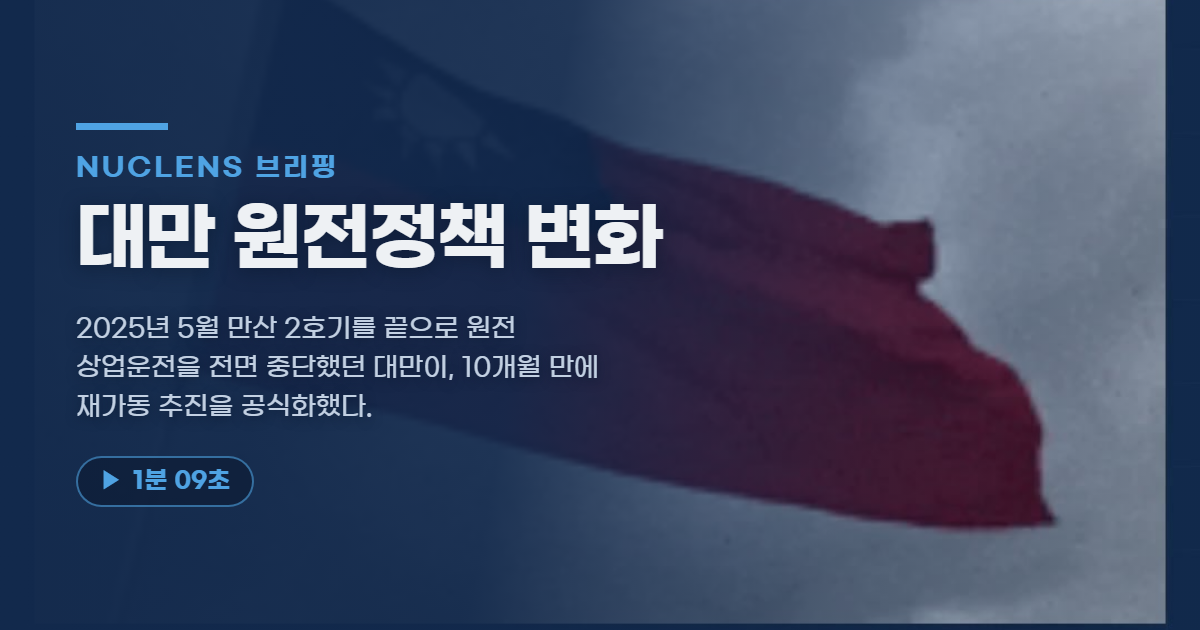
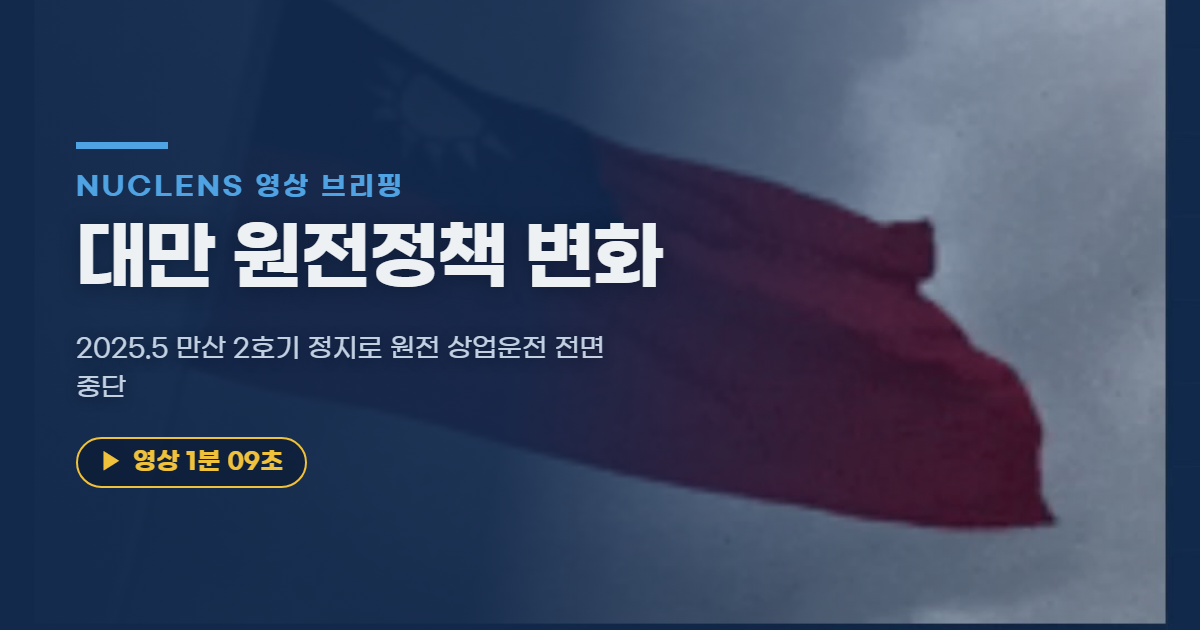
feat: 공유 페이지 표제를 「영상 브리핑」으로, 요약은 개조식으로 영상 위에
지니 2026-09-21 세 가지.

① 표제 반복. 제목이 영상 안에 상시 떠 있는데 표제·캡션·미리보기까지 같은
   낱말이라 한 화면에 네 번 보였다. 표제를 코너 이름 「영상 브리핑」으로
   바꾼다. 주제(대만 원전정책 변화)는 영상이 스스로 말한다. og:title 에는
   남긴다 — 링크만 받은 사람은 영상을 아직 못 봤다.

② 요약을 사내 보고서 문체 개조식으로, 그리고 **영상 위**로. 1분을 쓰기 전에
   무슨 내용인지 먼저 알아야 누를지가 정해진다. 체언 종결 4줄.

③ "이게 영상인지 잘 모르겠다"는 얘기. 표지가 타이포 그래픽이라 정지
   이미지로 읽히고, 브라우저 기본 재생 삼각형은 흐려서 신호가 약하다.
   · 공유 페이지 — 노란 원 + 「영상 재생 · 1분 09초」를 표지 위에. 누르면
     사라지고 그 뒤로는 기본 컨트롤이 맡는다.
   · 이슈 상세 타일 — 표지 오른쪽 아래에 「▶ 1분 09초」 길이 배지.

목록 글머리 ○ 는 글리프로 찍으면 12.5px 하한 가드에 걸린다(10px). 글자가
아니라 6px 원으로 그린다.

make_share.py 는 f-string 을 버리고 토큰 치환으로 다시 썼다 — CSS 중괄호와
두 번 부딪혔다.

Changed region(s): [[0.0617, 0.181, 0.555, 0.6635], [0.0617, 0.6937, 0.2467, 0.8143]]

diff --git a/web/public/shorts/taiwan/index.html b/web/public/shorts/taiwan/index.html
@@ -3,49 +3,72 @@
 <head>
 <meta charset="utf-8">
 <meta name="viewport" content="width=device-width, initial-scale=1">
-<title>대만 원전정책 변화 · NUCLENS 브리핑</title>
-<meta name="description" content="2025년 5월 만산 2호기를 끝으로 원전 상업운전을 전면 중단했던 대만이, 10개월 만에 재가동 추진을 공식화했다.">
+<title>대만 원전정책 변화 · NUCLENS 영상 브리핑</title>
+<meta name="description" content="2025.5 만산 2호기 정지로 원전 상업운전 전면 중단">
 <link rel="canonical" href="https://nuclens.pages.dev/shorts/taiwan/">
 
 <meta property="og:type" content="video.other">
 <meta property="og:site_name" content="Nuclens">
 <meta property="og:locale" content="ko_KR">
-<meta property="og:title" content="대만 원전정책 변화 · NUCLENS 브리핑">
-<meta property="og:description" content="2025년 5월 만산 2호기를 끝으로 원전 상업운전을 전면 중단했던 대만이, 10개월 만에 재가동 추진을 공식화했다.">
+<meta property="og:title" content="대만 원전정책 변화 · NUCLENS 영상 브리핑">
+<meta property="og:description" content="2025.5 만산 2호기 정지로 원전 상업운전 전면 중단">
 <meta property="og:url" content="https://nuclens.pages.dev/shorts/taiwan/">
 <meta property="og:image" content="https://nuclens.pages.dev/shorts/2026-09-21-taiwan-og.png">
 <meta property="og:image:width" content="1200">
 <meta property="og:image:height" content="630">
-<meta property="og:image:alt" content="대만 원전정책 변화 — NUCLENS 브리핑 영상">
+<meta property="og:image:alt" content="대만 원전정책 변화 — NUCLENS 영상 브리핑">
 <meta property="og:video" content="https://nuclens.pages.dev/shorts/2026-09-21-taiwan.mp4">
 <meta property="og:video:type" content="video/mp4">
 <meta property="og:video:width" content="1080">
 <meta property="og:video:height" content="1920">
 <meta name="twitter:card" content="summary_large_image">
-<meta name="twitter:title" content="대만 원전정책 변화 · NUCLENS 브리핑">
-<meta name="twitter:description" content="2025년 5월 만산 2호기를 끝으로 원전 상업운전을 전면 중단했던 대만이, 10개월 만에 재가동 추진을 공식화했다.">
+<meta name="twitter:title" content="대만 원전정책 변화 · NUCLENS 영상 브리핑">
+<meta name="twitter:description" content="2025.5 만산 2호기 정지로 원전 상업운전 전면 중단">
 <meta name="twitter:image" content="https://nuclens.pages.dev/shorts/2026-09-21-taiwan-og.png">
 
 <link rel="icon" href="/favicon.svg">
 <style>
 @font-face{font-family:"Pretendard Variable";
   src:url("/fonts/pretendard/v1.3.9/PretendardVariable.subset.woff2") format("woff2-variations");font-weight:45 920;font-display:swap}
-:root{--navy:#12294C;--paper:#EEF1F4;--blue:#4FA3E3;--dim:#9FB3CC}
+:root{--navy:#12294C;--paper:#EEF1F4;--blue:#4FA3E3;--dim:#9FB3CC;--video:#F0C23C}
 *{margin:0;padding:0;box-sizing:border-box}
 body{background:var(--navy);color:var(--paper);min-height:100vh;
   font-family:"Pretendard Variable","Malgun Gothic",sans-serif;
   -webkit-font-smoothing:antialiased;display:flex;justify-content:center;
-  padding:40px 16px 72px}
+  padding:36px 16px 72px}
 .wrap{width:100%;max-width:520px}
 a{color:inherit}
 .home{display:inline-flex;align-items:center;gap:9px;font-size:15px;font-weight:600;
   color:var(--blue);text-decoration:none;letter-spacing:.08em}
-.rule{width:64px;height:5px;background:var(--blue);margin:26px 0 16px}
-h1{font-size:34px;font-weight:800;letter-spacing:-.03em;line-height:1.28}
-.meta{font-size:14px;color:var(--dim);margin-top:12px;letter-spacing:.02em}
-video{width:100%;aspect-ratio:9/16;display:block;margin-top:22px;border-radius:14px;
+.rule{width:64px;height:5px;background:var(--blue);margin:24px 0 14px}
+h1{font-size:32px;font-weight:800;letter-spacing:-.03em;line-height:1.28}
+.meta{font-size:14px;color:var(--dim);margin-top:10px;letter-spacing:.02em}
+
+/* 요약은 영상 **위**다(지니 2026-09-21). 1분을 쓰기 전에 무슨 내용인지 먼저
+   알아야 누를지가 정해진다. 사내 보고서 문체 그대로 개조식 체언 종결. */
+.sum{list-style:none;margin:22px 0 0}
+.sum li{position:relative;padding-left:17px;font-size:15.5px;line-height:1.7;
+  color:#C8D4E4;word-break:keep-all}
+.sum li+li{margin-top:7px}
+.sum li::before{content:"";position:absolute;left:0;top:10px;width:6px;height:6px;
+  border:1.5px solid var(--video);border-radius:50%}
+
+/* 표지가 타이포 그래픽이라 정지 이미지로 읽힌다는 말이 나왔다. 브라우저 기본
+   재생 삼각형은 흐려서 신호가 약하다 — 노란 원과 "영상 재생" 글자를 얹는다.
+   한 번 누르면 사라지고 그 다음부터는 기본 컨트롤이 맡는다. */
+.player{position:relative;margin-top:24px;border-radius:14px;overflow:hidden;
   background:#0b1830;box-shadow:0 18px 44px rgba(0,0,0,.45)}
-.lede{font-size:16px;line-height:1.65;color:#C8D4E4;margin-top:24px;word-break:keep-all}
+.player video{width:100%;aspect-ratio:9/16;display:block}
+.cue{position:absolute;inset:0;display:flex;flex-direction:column;
+  align-items:center;justify-content:center;gap:16px;border:0;cursor:pointer;
+  background:rgb(8 18 36 / 34%);font-family:inherit;color:#fff}
+.cue[hidden]{display:none}
+.cue-ico{width:78px;height:78px;border-radius:50%;background:var(--video);
+  color:#20160a;display:flex;align-items:center;justify-content:center;
+  font-size:30px;padding-left:5px;box-shadow:0 10px 26px rgba(0,0,0,.45)}
+.cue-txt{padding:7px 16px;border-radius:999px;background:rgb(8 18 36 / 78%);
+  font-size:15px;font-weight:700;letter-spacing:.02em}
+
 .row{display:flex;gap:10px;margin-top:22px;flex-wrap:wrap}
 .btn{flex:1 1 160px;display:inline-flex;align-items:center;justify-content:center;
   gap:8px;padding:15px 18px;border-radius:11px;font-size:16px;font-weight:700;
@@ -68,13 +91,19 @@ video{width:100%;aspect-ratio:9/16;display:block;margin-top:22px;border-radius:1
 <div class="wrap">
   <a class="home" href="/">← NUCLENS</a>
   <div class="rule"></div>
-  <h1>대만 원전정책 변화</h1>
-  <div class="meta">NUCLENS 브리핑 · 2026-09-21 · 1분 09초</div>
+  <h1>영상 브리핑</h1>
+  <div class="meta">2026. 09. 21. · 1분 09초</div>
 
-  <video controls playsinline preload="metadata"
-         poster="/shorts/2026-09-21-taiwan.jpg" src="/shorts/2026-09-21-taiwan.mp4"></video>
+  <ul class="sum"><li>2025.5 만산 2호기 정지로 원전 상업운전 전면 중단</li><li>10개월 뒤 2026.3 정부가 재가동 추진 공식화</li><li>계속운전 국민투표는 찬성 74.17%에도 정족수 미달로 부결</li><li>재가동 시점은 안전점검·심사 후 빨라야 2028년 전망</li></ul>
 
-  <p class="lede">2025년 5월 만산 2호기를 끝으로 원전 상업운전을 전면 중단했던 대만이, 10개월 만에 재가동 추진을 공식화했다.<br>계속운전 국민투표는 찬성 74.17%에도 정족수 미달로 부결됐고, 재가동은 안전점검·심사를 거쳐 빨라야 2028년이다.</p>
+  <div class="player">
+    <video id="v" controls playsinline preload="metadata"
+           poster="/shorts/2026-09-21-taiwan.jpg" src="/shorts/2026-09-21-taiwan.mp4"></video>
+    <button type="button" class="cue" id="cue">
+      <span class="cue-ico" aria-hidden="true">&#9654;</span>
+      <span class="cue-txt">영상 재생 · 1분 09초</span>
+    </button>
+  </div>
 
   <div class="row">
     <button class="btn p" id="copy">링크 복사</button>
@@ -83,7 +112,7 @@ video{width:100%;aspect-ratio:9/16;display:block;margin-top:22px;border-radius:1
 
   <div class="src">
     <b>자료</b> 대만 원자력안전위원회 · 경제부 · 중앙선거위원회 · 대만전력 발표 및
-    중앙통신사(CNA) 보도 종합. 기준일 2026. 9. 21.<br>
+    중앙통신사(CNA) 보도 종합. 기준일 2026. 09. 21.<br>
     <b>사진</b> Wikimedia Commons — 만산 원전(Taiwankengo, CC BY-SA 4.0),
     총통부(Paul Arps, CC BY 2.0), 입법원(Yu tptw·阿道, CC BY-SA 4.0),
     라이칭더 총통(總統府, CC BY 2.0)
@@ -91,25 +120,35 @@ video{width:100%;aspect-ratio:9/16;display:block;margin-top:22px;border-radius:1
 </div>
 <div class="toast" id="toast">링크를 복사했습니다</div>
 <script>
-// 공유 시트가 있으면 그걸 쓰고(폰), 없으면 클립보드로 떨어진다(PC).
-document.getElementById("copy").addEventListener("click", async () => {
-  const url = location.href;
-  const data = { title: '대만 원전정책 변화', text: '2025년 5월 만산 2호기를 끝으로 원전 상업운전을 전면 중단했던 대만이, 10개월 만에 재가동 추진을 공식화했다.', url };
-  try {
-    if (navigator.share && navigator.canShare && navigator.canShare(data)) {
-      await navigator.share(data);
-      return;
+(function () {
+  var v = document.getElementById("v");
+  var cue = document.getElementById("cue");
+  cue.addEventListener("click", function () {
+    cue.hidden = true;
+    v.play().catch(function () {});
+  });
+  v.addEventListener("play", function () { cue.hidden = true; });
+
+  // 공유 시트가 있으면 그걸 쓰고(폰), 없으면 클립보드로 떨어진다(PC).
+  document.getElementById("copy").addEventListener("click", async function () {
+    var url = location.href;
+    var data = { title: "대만 원전정책 변화", text: "2025.5 만산 2호기 정지로 원전 상업운전 전면 중단", url: url };
+    try {
+      if (navigator.share && navigator.canShare && navigator.canShare(data)) {
+        await navigator.share(data);
+        return;
+      }
+      await navigator.clipboard.writeText(url);
+    } catch (e) {
+      if (e && e.name === "AbortError") return;   // 사용자가 공유 시트를 닫았다
+      var t = document.createElement("textarea");
+      t.value = url; document.body.appendChild(t); t.select();
+      try { document.execCommand("copy"); } finally { t.remove(); }
     }
-    await navigator.clipboard.writeText(url);
-  } catch (e) {
-    if (e && e.name === "AbortError") return;   // 사용자가 공유 시트를 닫았다
-    const t = document.createElement("textarea");
-    t.value = url; document.body.append(t); t.select();
-    try { document.execCommand("copy"); } finally { t.remove(); }
-  }
-  const el = document.getElementById("toast");
-  el.classList.add("on");
-  setTimeout(() => el.classList.remove("on"), 1600);
-});
+    var el = document.getElementById("toast");
+    el.classList.add("on");
+    setTimeout(function () { el.classList.remove("on"); }, 1600);
+  });
+})();
 </script>
 </body></html>

diff --git a/web/public/style.css b/web/public/style.css
@@ -3385,8 +3385,21 @@ dialog::backdrop { background: rgb(18 41 76 / 48%); }
 .short figcaption { font-size: var(--t-caption); color: var(--c-text); line-height: 1.4; }
 /* 두 줄 요약 — 제목 아래. 제목은 영상 안에 이미 떠 있으니 여기서 일을 하는
    것은 이쪽이다. 제목보다 크게 두면 위계가 뒤집히므로 색만 낮춘다. */
-.short-sum { font-size: var(--t-caption); color: var(--c-text-muted);
+.short-sum { margin: 0; padding: 0; list-style: none;
+  font-size: var(--t-caption); color: var(--c-text-muted);
   line-height: 1.62; word-break: keep-all; }
+.short-sum li { position: relative; padding-left: 15px; }
+/* 글리프(○)로 찍으면 12.5px 하한 가드에 걸린다 — 글자가 아니라 도형으로 그린다. */
+.short-sum li::before { content: ""; position: absolute; left: 1px; top: 9px;
+  width: 6px; height: 6px; border: 1.5px solid var(--c-video); border-radius: 50%; }
+
+/* 표지가 타이포 그래픽이라 정지 이미지로 읽힌다(지니 2026-09-21 "이게 영상인지
+   잘 모른다는 얘기가 있는데"). 길이 배지를 얹으면 한눈에 영상이 된다. */
+.short-frame { position: relative; display: inline-block; max-width: 100%; }
+.short-len { position: absolute; right: 8px; bottom: 8px; z-index: 2;
+  padding: 3px 9px; border-radius: var(--r-1); background: rgb(8 18 36 / 82%);
+  color: #fff; font-size: var(--t-caption); font-weight: 700; letter-spacing: .02em;
+  pointer-events: none; }
 .short-link { align-self: flex-start; padding: 0; border: 0; background: none;
   color: var(--c-text-muted); font: inherit; font-size: var(--t-caption); cursor: pointer; }
 .short-link:hover { color: var(--c-text); }

diff --git a/web/public/app.js b/web/public/app.js
@@ -1967,10 +1967,16 @@ function shortsTile(row, { link = false, caption = true } = {}) {
     ? [].concat(row.summary || []).map(line => String(line).trim()).filter(Boolean)
     : [];
   const issueId = String(row.issue_id || "").trim();
-  return `<figure class="short">${media}
+  const secs = Number(row.seconds) || 0;
+  const len = secs
+    ? (secs >= 60 ? `${Math.floor(secs / 60)}분 ${String(secs % 60).padStart(2, "0")}초` : `${secs}초`)
+    : "";
+  // 표지가 그래픽이라 정지 이미지로 읽힌다 — 길이 배지를 얹어 영상임을 못박는다.
+  return `<figure class="short">${yt || !len ? media : `<div class="short-frame">${media}
+      <span class="short-len" aria-hidden="true">▶ ${esc(len)}</span></div>`}
     <div class="short-meta">
       ${title ? `<figcaption>${esc(title)}</figcaption>` : ""}
-      ${sum.length ? `<p class="short-sum">${sum.map(line => esc(line)).join("<br>")}</p>` : ""}
+      ${sum.length ? `<ul class="short-sum">${sum.map(line => `<li>${esc(line)}</li>`).join("")}</ul>` : ""}
       ${link && issueId.startsWith("issue-") ? `<button type="button" class="short-link" data-issue-id="${esc(issueId)}" data-force-dialog="1">이슈 보기 →</button>` : ""}
     </div>
   </figure>`;
